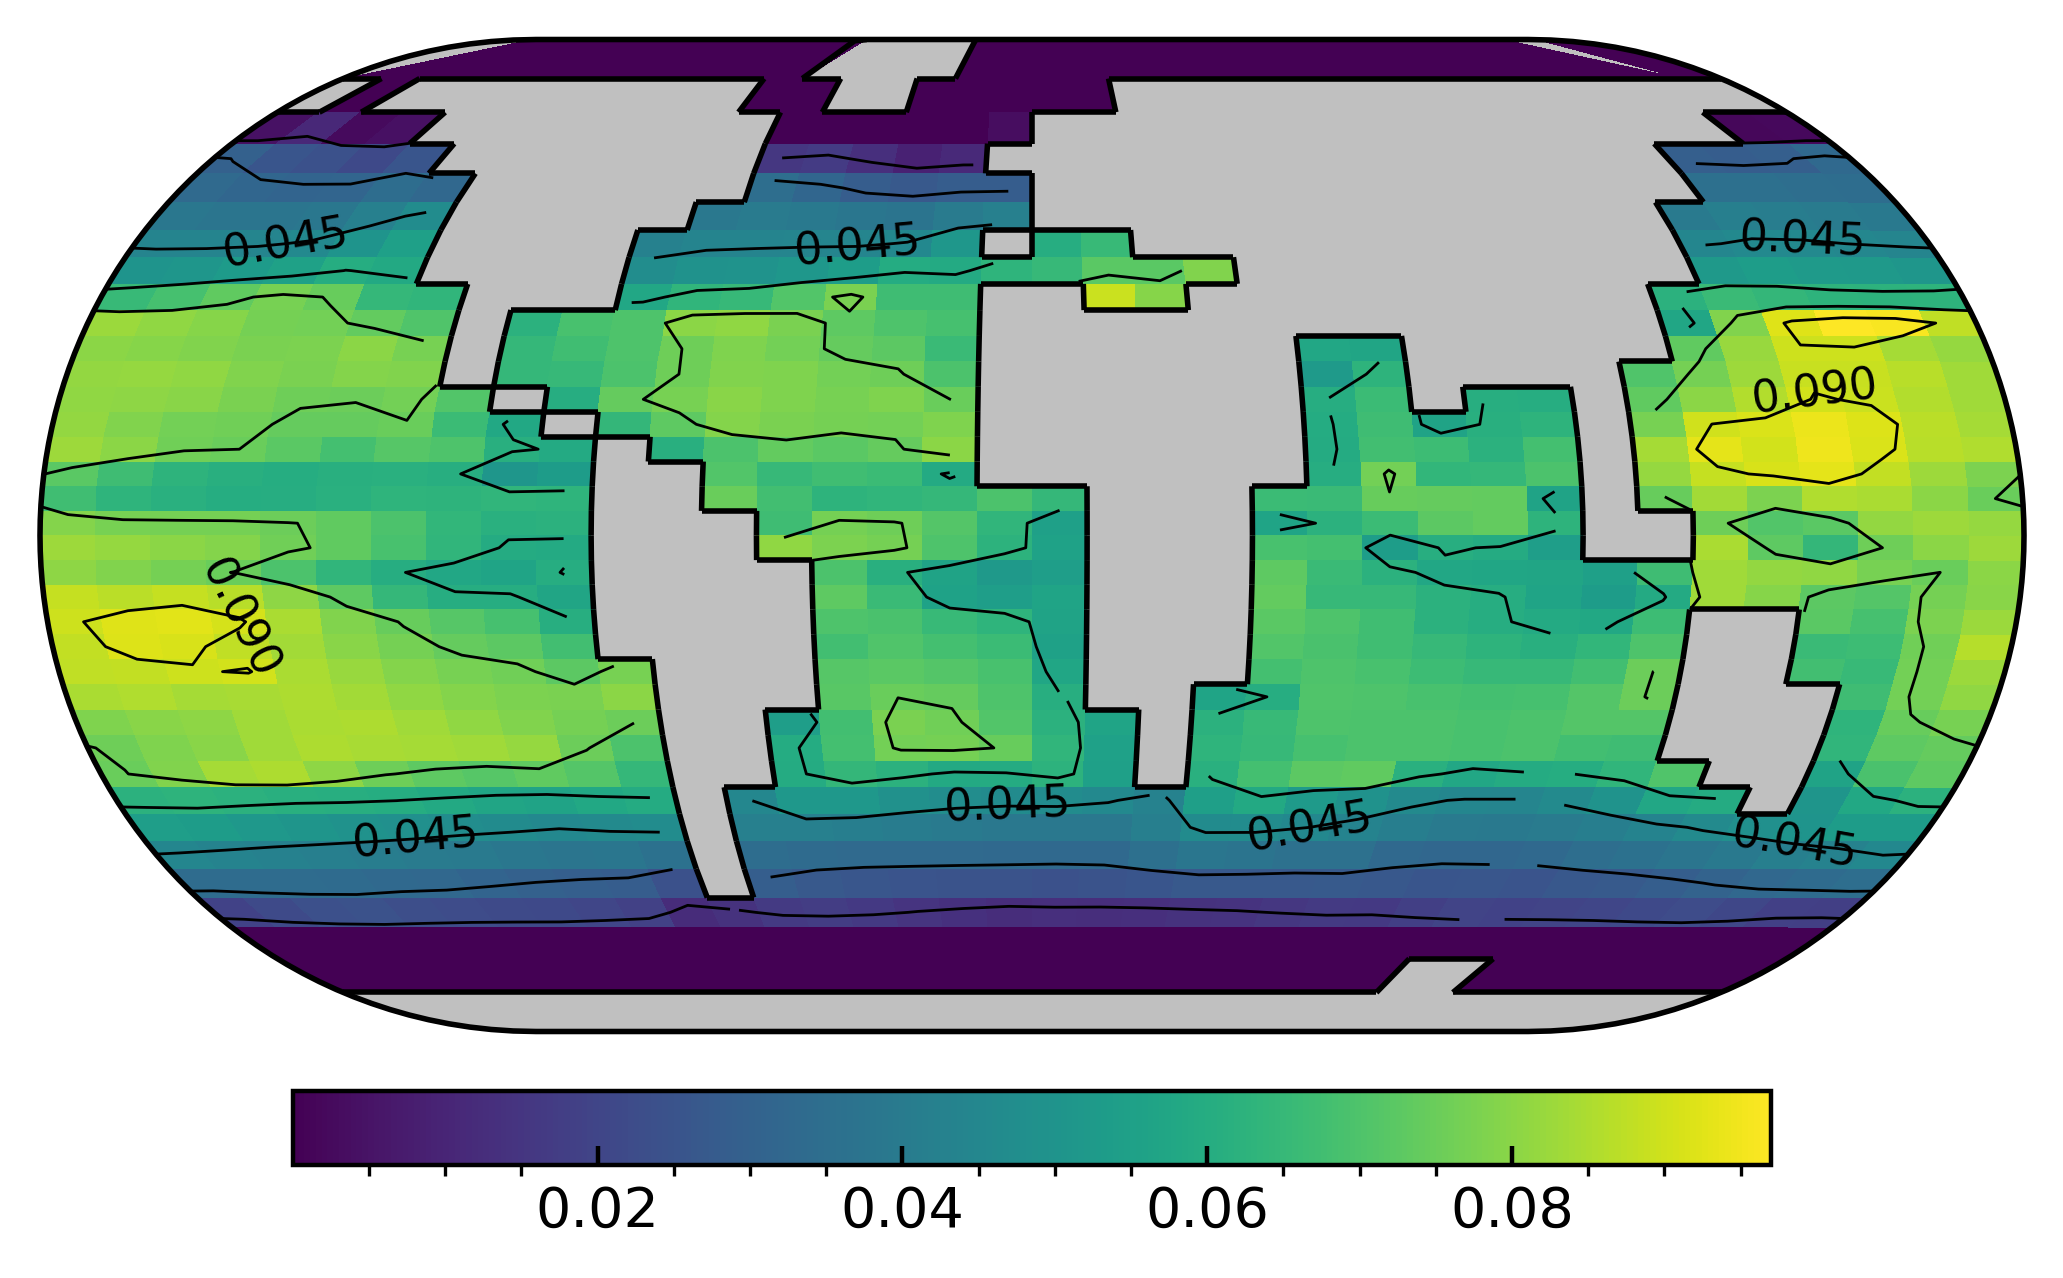
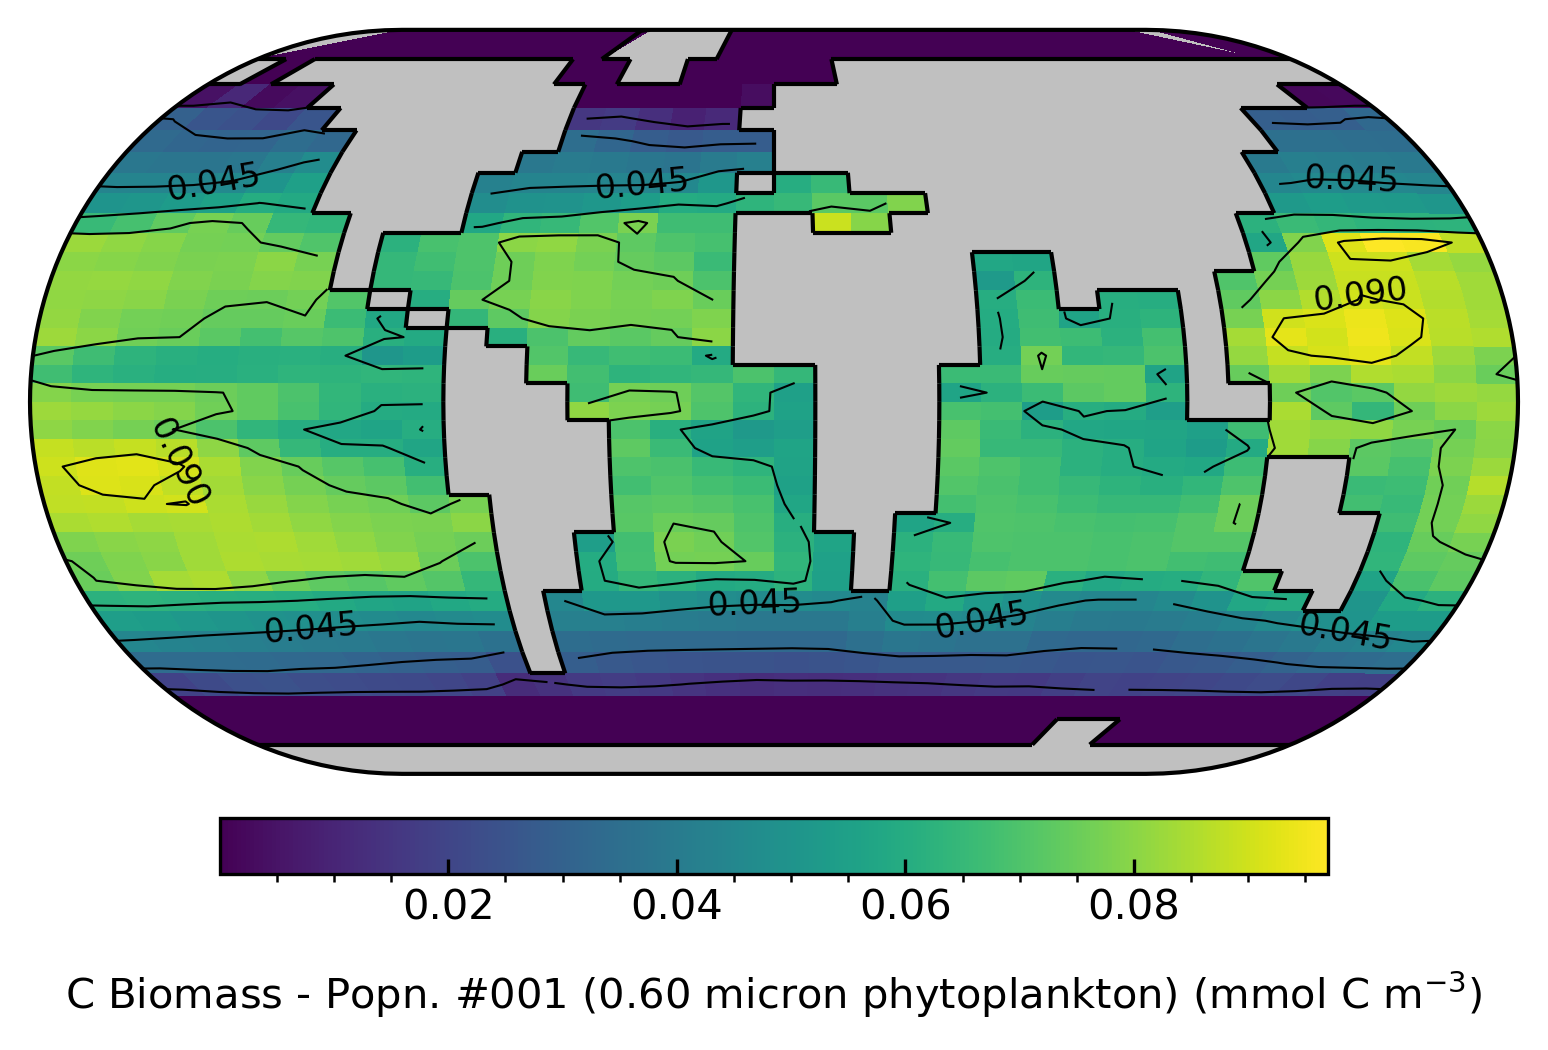
feat: use nicely formatted unit in plot label

diff --git a/src/cgeniepy/plot.py b/src/cgeniepy/plot.py
@@ -207,7 +207,7 @@ class GeniePlottable:
         dim = self.array[self.array.dims[0]]
                 
         ax.set_xlabel(dim.name)
-        ax.set_ylabel(f"{self.array.name} (${{{self.array.units}}}$)")
+        ax.set_ylabel(f"{self.array.long_name} ({self.array.units})")
         p = ax.plot(dim, self.array, *args, **kwargs)
 
         return p
@@ -442,6 +442,8 @@ class GeniePlottable:
         cbar.ax.tick_params(color="k", direction="in")
         cbar.outline.set_edgecolor('black')
         cbar.minorticks_on()
+        ## set colorbar label
+        cbar.set_label(f"{self.array.long_name} ({self.array.units})", size=10, labelpad=10)
         
     def plot_quiver(x,y):
         pass

diff --git a/README.md b/README.md
@@ -1,4 +1,4 @@
-This package is an interface to the output of [cGENIE Earth System Model](https://www.seao2.info/mymuffin.html). It is an alternative to the exisiting [MATLAB libraries](https://github.com/derpycode/muffinplot). It aims to do three things:
+`cgeniepy` is an Python interface to the output of [cGENIE Earth System Model](https://www.seao2.info/mymuffin.html). It is an alternative to the exisiting [MATLAB libraries](https://github.com/derpycode/muffinplot). It aims to do three things:
 
 + Read model output
 + Data analysis
@@ -12,7 +12,8 @@ This package is an interface to the output of [cGENIE Earth System Model](https:
 python3 -m pip install -i https://test.pypi.org/simple/ cgeniepy==0.7.0
 ```
 
-## Read data
+## Usage
+### 1. Read data
 + netCDF (*.nc)
 + time series (*.res)
 
@@ -23,7 +24,7 @@ model = GenieModel(path_to_model_output)
 model.get_var("XXXXX").array
 ```
 
-## Data analysis
+### 2. Data analysis
 + Data subsetting and statistics
 + Model performance
 + Unit-changing operation (e.g., rate to magnitude)
@@ -36,7 +37,7 @@ zonal_sst = model.get_var("ocn_sur_temp").isel(time=-1).mean(dim='lat')
 npac_sst = model.get_var("ocn_sur_temp").select_basin(47).isel(time=-1)
 ```
 
-## Visualisation
+### 3. Visualisation
 + 1D line (time series, zonal average)
 + 2D map (including various projections like polar map)
 + 2D cross section
@@ -49,7 +50,7 @@ zonal_sst.plot()
 npac_sst.plot()
 ```
 
-## Others
+### 4. Others
 + ECOGEM shortcuts
 
 ```python
@@ -58,7 +59,6 @@ model = EcoModel(path_to_model_path)
 ## get all phytoplankton carbon biomass and plot as map
 model.get_pft("Phyto", "Biomass", "C").isel(time=-1).plot()
 ```
-
 
 ## Gallery
 
@@ -69,7 +69,6 @@ model.get_pft("Phyto", "Biomass", "C").isel(time=-1).plot()
 ### A global distribution of basin-level nutrient (PO4) 
 
 ![modern_po4](example_transection.png)
-
 
 ## Project Roadmap 🚩
 
